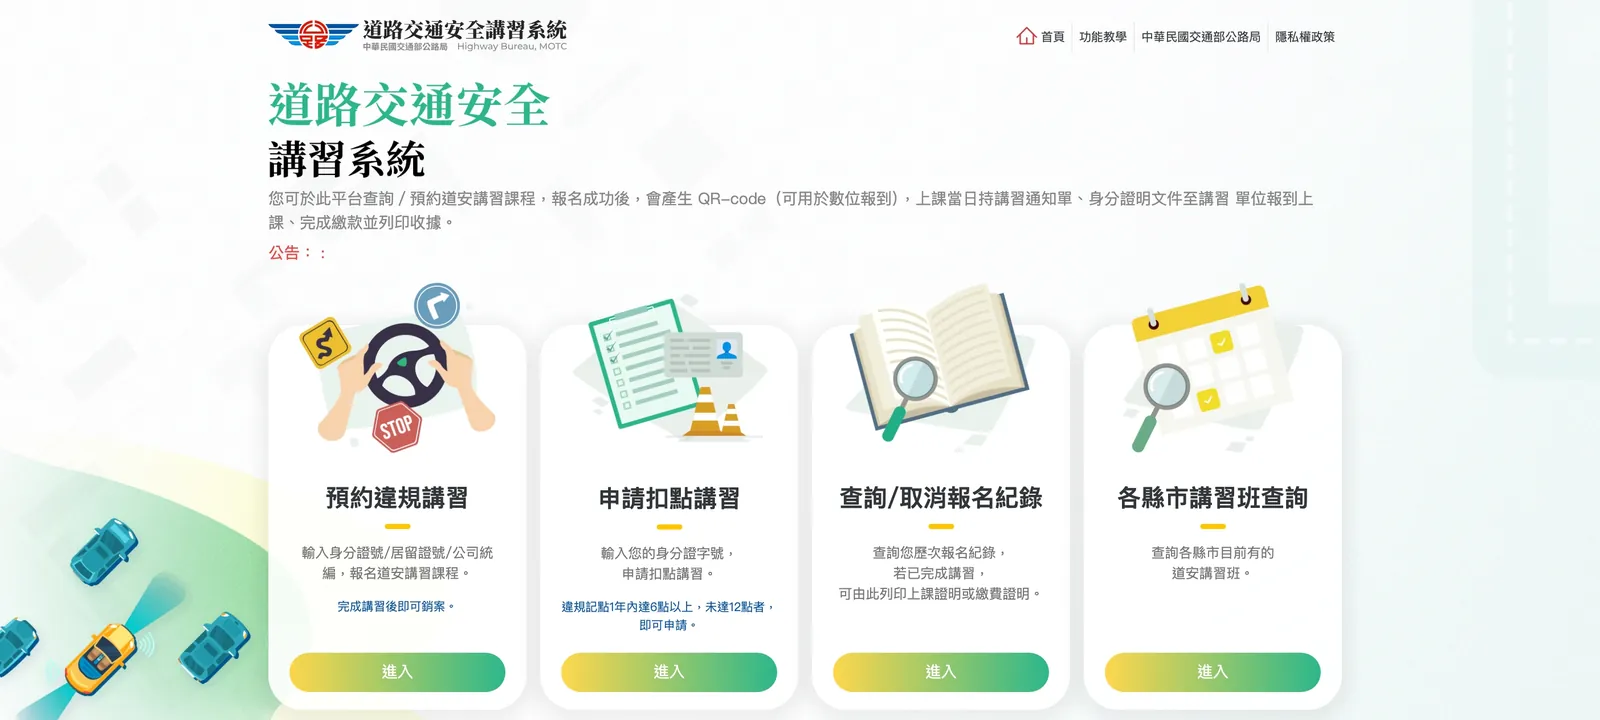
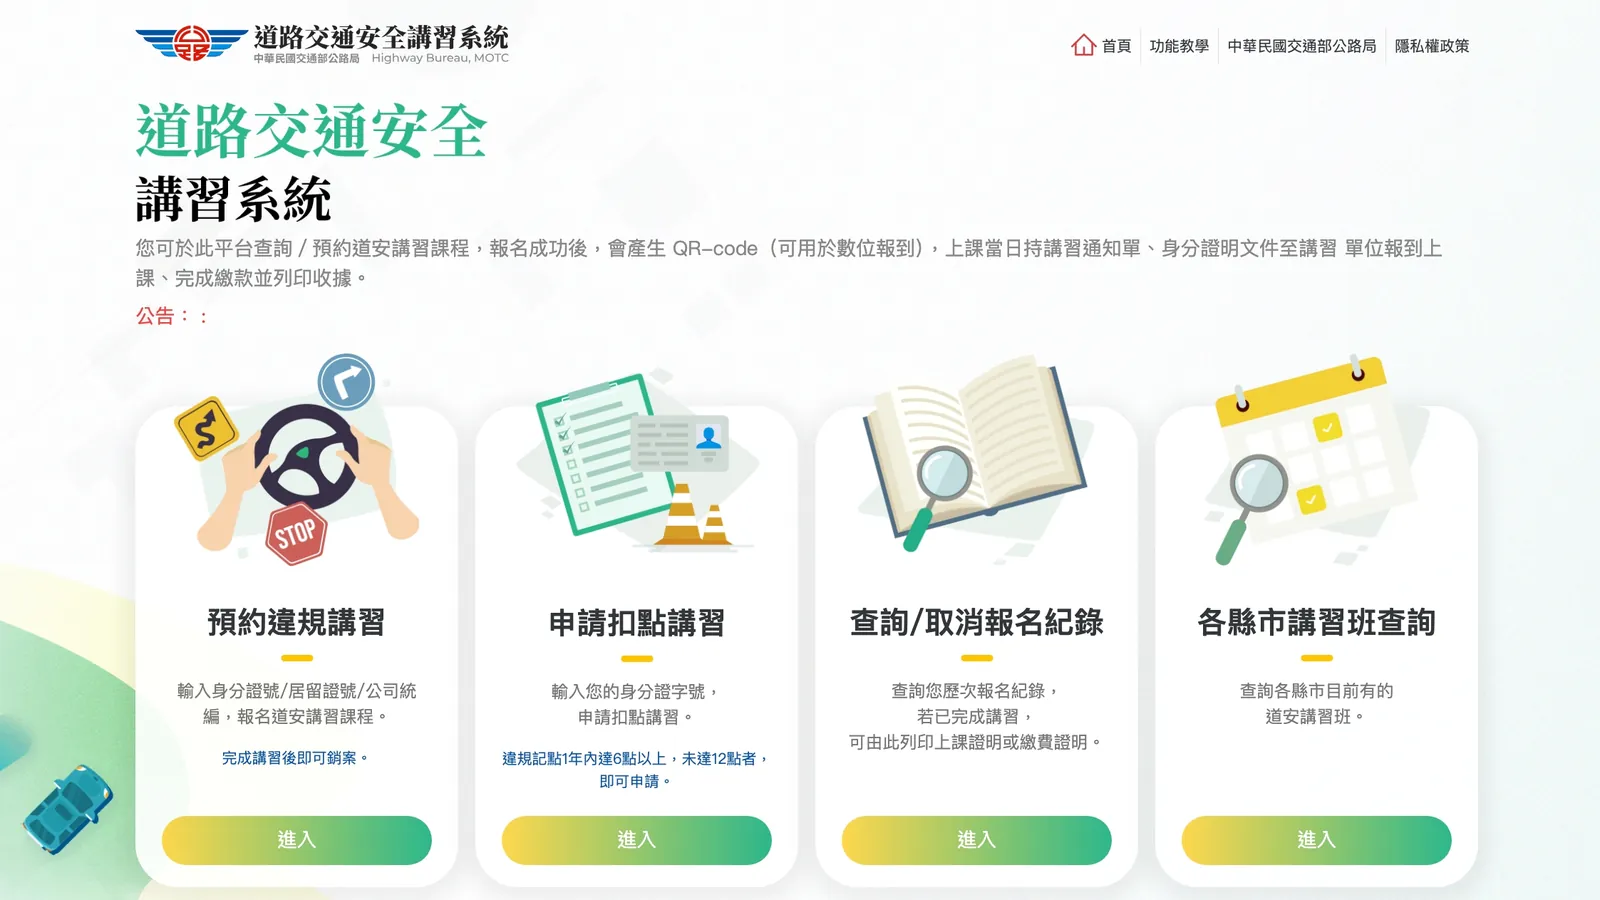
feat: 新增作品與多張截圖支援
- 新增作品：IoT 資訊彙整平台、萌夯物語筆記（前後端 repo 連結）
- 作品截圖支援多張並可加上說明文字，多張時桌面版並排
- 道路交通安全講習系統加入後台截圖，前後台截圖統一裁為 16:9
- 新增 IoT、萌夯物語筆記、形象官網的截圖
- 道路交通安全講習系統改用後台實際名稱（班期、師資、銷案管理）

Claude-Session: https://claude.ai/code/session_01Xu3jD2PxYE2uaiCKcRNYKP

diff --git a/src/data/resume.ts b/src/data/resume.ts
@@ -1,6 +1,10 @@
 import cbsShot from '@/assets/projects/cbs.webp'
+import csqShot from '@/assets/projects/csq.webp'
 import dginfraShot from '@/assets/projects/dginfra.webp'
+import iotShot from '@/assets/projects/iot.webp'
+import mhs2Shot from '@/assets/projects/mhs2.webp'
 import slpShot from '@/assets/projects/slp.webp'
+import slpAdminShot from '@/assets/projects/slp-admin.webp'
 
 /**
  * 履歷內容集中在這個檔案。
@@ -35,6 +39,8 @@ export interface ProjectImage {
   src: string
   /** 描述圖片內容，給螢幕閱讀器與圖片載入失敗時使用 */
   alt: string
+  /** 圖片下方的簡短說明（選填），例如「前台」「後台」 */
+  caption?: string
 }
 
 export interface SourceLink {
@@ -48,8 +54,8 @@ export interface Project {
   summary: string
   highlights: string[]
   stack: string[]
-  /** 作品截圖（選填），有填才會顯示，依原圖比例呈現；建議寬 1200px 以上 */
-  image?: ProjectImage
+  /** 作品截圖（選填），依原圖比例呈現；多張時桌面版並排顯示。建議寬 1200px 以上 */
+  image?: ProjectImage | ProjectImage[]
   /** 網站已下線時設為 true：顯示「已下線」標籤，並隱藏線上版本連結 */
   offline?: boolean
   demo?: string
@@ -136,16 +142,24 @@ export const projects: Project[] = [
     title: '道路交通安全講習系統',
     year: '2023-2024',
     summary:
-      '公路局的道安講習線上系統。民眾可查詢全台受託單位的班次並自行預約講習；後台供管理受託單位、講師與講習結案。',
+      '公路局的道安講習線上系統。民眾可查詢全台受託單位的班次並自行預約講習；後台供管理受託單位、班期、師資與銷案作業。',
     highlights: [
       '負責民眾端預約流程、課後評量、以及前端頁面開發',
       '依地區、日期篩選全台受託單位的班次，讓民眾快速找到可報名的場次',
-      '負責後台帳密權限管理、受託單位與講師管理、講習結案與評量、QRCode掃碼報到等功能',
+      '負責後台帳密權限管理、受託單位管理、班期管理、師資管理、銷案管理與評量，以及 QR Code 掃碼報到等功能',
     ],
-    image: {
-      src: slpShot,
-      alt: '道路交通安全講習系統首頁，提供預約違規講習、申請扣點講習、查詢或取消報名紀錄、各縣市講習班查詢四個入口',
-    },
+    image: [
+      {
+        src: slpShot,
+        alt: '道路交通安全講習系統首頁，提供預約違規講習、申請扣點講習、查詢或取消報名紀錄、各縣市講習班查詢四個入口',
+        caption: '前台：民眾預約首頁',
+      },
+      {
+        src: slpAdminShot,
+        alt: '後台的編輯班期畫面，含班別、開班時間與授課講師設定，下方為學員報名清單與繳費、上課、銷案狀態（個資已模糊處理）',
+        caption: '後台：班期與學員管理',
+      },
+    ],
     stack: ['Vite', 'Vue 3', 'TypeScript', 'Naive UI'],
     demo: 'https://slp.mvdis.gov.tw/user/',
   },
@@ -166,6 +180,21 @@ export const projects: Project[] = [
     demo: 'https://cbs.tw/',
   },
   {
+    title: 'IoT 資訊彙整平台',
+    year: '2022',
+    summary: '災防示警機台的監控管理平台，將各地機台的狀態集中呈現在地圖與圖表上，協助管理人員即時掌握設備運作情形。',
+    highlights: [
+      '中途接手 Vue 2 版本的功能開發，同時參與從 Vue CLI 轉換到 Vite、Vue 3 與 TypeScript 的版本升級',
+      '依客戶需求與 API 文件串接後端，以 Leaflet 在地圖上標示各地災防示警機台與連線狀態，便於監控與管理',
+      '點選機台即可查看電量、溫度、訊號強度、SNR 等設備資訊，以 Highcharts 將數值視覺化，並以 Bootstrap 完成版面切版',
+    ],
+    image: {
+      src: iotShot,
+      alt: '資訊彙整平台管理畫面：左側為機台詳細資訊面板，含 Highcharts 儀表圖與電量、溫度、訊號強度等欄位；右側地圖以綠色點標示台灣各地的災防示警機台',
+    },
+    stack: ['Vue 2', 'Vite', 'Vue 3', 'TypeScript', 'Leaflet', 'Highcharts', 'Bootstrap'],
+  },
+  {
     title: '萌夯物語筆記',
     year: '2021',
     summary:
@@ -175,6 +204,10 @@ export const projects: Project[] = [
       '以 Sequelize 設計資料模型，透過 migration 與 seeder 管理資料庫結構與遊戲資料',
       '後端分為 router、controller、service 三層；原部署於 Heroku，免費方案終止後遷移至 Cyclic，資料庫使用 Nhost 提供的 PostgreSQL',
     ],
+    image: {
+      src: mhs2Shot,
+      alt: '萌夯物語筆記的基因盤畫面：左側為九宮格的基因配置，右側表格列出賓果加成數與對應的傷害倍率',
+    },
     stack: ['Vue 2', 'Vuex', 'Vue.Draggable', 'Bootstrap', 'Node.js', 'Express', 'Sequelize', 'PostgreSQL'],
     demo: 'https://rag1995.github.io/mhs2_note/#/',
     source: [
@@ -191,6 +224,10 @@ export const projects: Project[] = [
       '獨立完成前後端開發與部署：前台以 Vue 2 建置並部署於 Netlify，後端 API 部署於 Heroku，資料存放於 MongoDB',
       '開發計畫成果管理後台，讓非技術背景的同事能自行新增與更新成果內容',
     ],
+    image: {
+      src: csqShot,
+      alt: '形象官網首頁，主視覺為講座活動的大合照，中間為協會名稱與「與我們聯絡」按鈕',
+    },
     stack: ['Vue 2', 'Node.js', 'Express', 'MongoDB', 'Netlify', 'Heroku'],
     demo: 'https://friendly-dubinsky-acd3ce.netlify.app/',
   },

diff --git a/src/components/ProjectItem.vue b/src/components/ProjectItem.vue
@@ -1,9 +1,16 @@
 <script setup lang="ts">
 import { computed } from 'vue'
 
-import type { Project, SourceLink } from '@/data/resume'
+import type { Project, ProjectImage, SourceLink } from '@/data/resume'
 
 const props = defineProps<{ project: Project }>()
+
+// 截圖可以是單張或多張，統一轉成陣列處理
+const images = computed<ProjectImage[]>(() => {
+  const { image } = props.project
+  if (!image) return []
+  return Array.isArray(image) ? image : [image]
+})
 
 // 單一網址轉成一個「查看原始碼」連結；陣列則照原樣使用
 const sourceLinks = computed<SourceLink[]>(() => {
@@ -22,9 +29,12 @@ const sourceLinks = computed<SourceLink[]>(() => {
         <span class="year">{{ project.year }}</span>
       </span>
     </div>
-    <figure v-if="project.image" class="shot">
-      <img :src="project.image.src" :alt="project.image.alt" loading="lazy" decoding="async" />
-    </figure>
+    <div v-if="images.length" class="shots" :class="{ multi: images.length > 1 }">
+      <figure v-for="img in images" :key="img.src" class="shot">
+        <img :src="img.src" :alt="img.alt" loading="lazy" decoding="async" />
+        <figcaption v-if="img.caption">{{ img.caption }}</figcaption>
+      </figure>
+    </div>
     <p class="summary">{{ project.summary }}</p>
     <ul class="highlights">
       <li v-for="item in project.highlights" :key="item">{{ item }}</li>
@@ -86,9 +96,22 @@ h3 {
   font-variant-numeric: tabular-nums;
 }
 
-/* 作品截圖：依原圖比例完整呈現，不裁切 */
+/* 作品截圖：依原圖比例完整呈現，不裁切；多張時桌面版並排 */
+.shots {
+  display: grid;
+  gap: 0.75rem;
+  margin-top: 0.75rem;
+}
+
+@media (min-width: 640px) {
+  .shots.multi {
+    grid-template-columns: repeat(2, minmax(0, 1fr));
+    align-items: start;
+  }
+}
+
 .shot {
-  margin: 0.75rem 0 0;
+  margin: 0;
   overflow: hidden;
   border: 1px solid var(--line);
   border-radius: var(--radius);
@@ -99,6 +122,13 @@ h3 {
   display: block;
   width: 100%;
   height: auto;
+}
+
+.shot figcaption {
+  padding: 0.35rem 0.75rem;
+  border-top: 1px solid var(--line);
+  color: var(--muted);
+  font-size: 0.85rem;
 }
 
 .summary {
